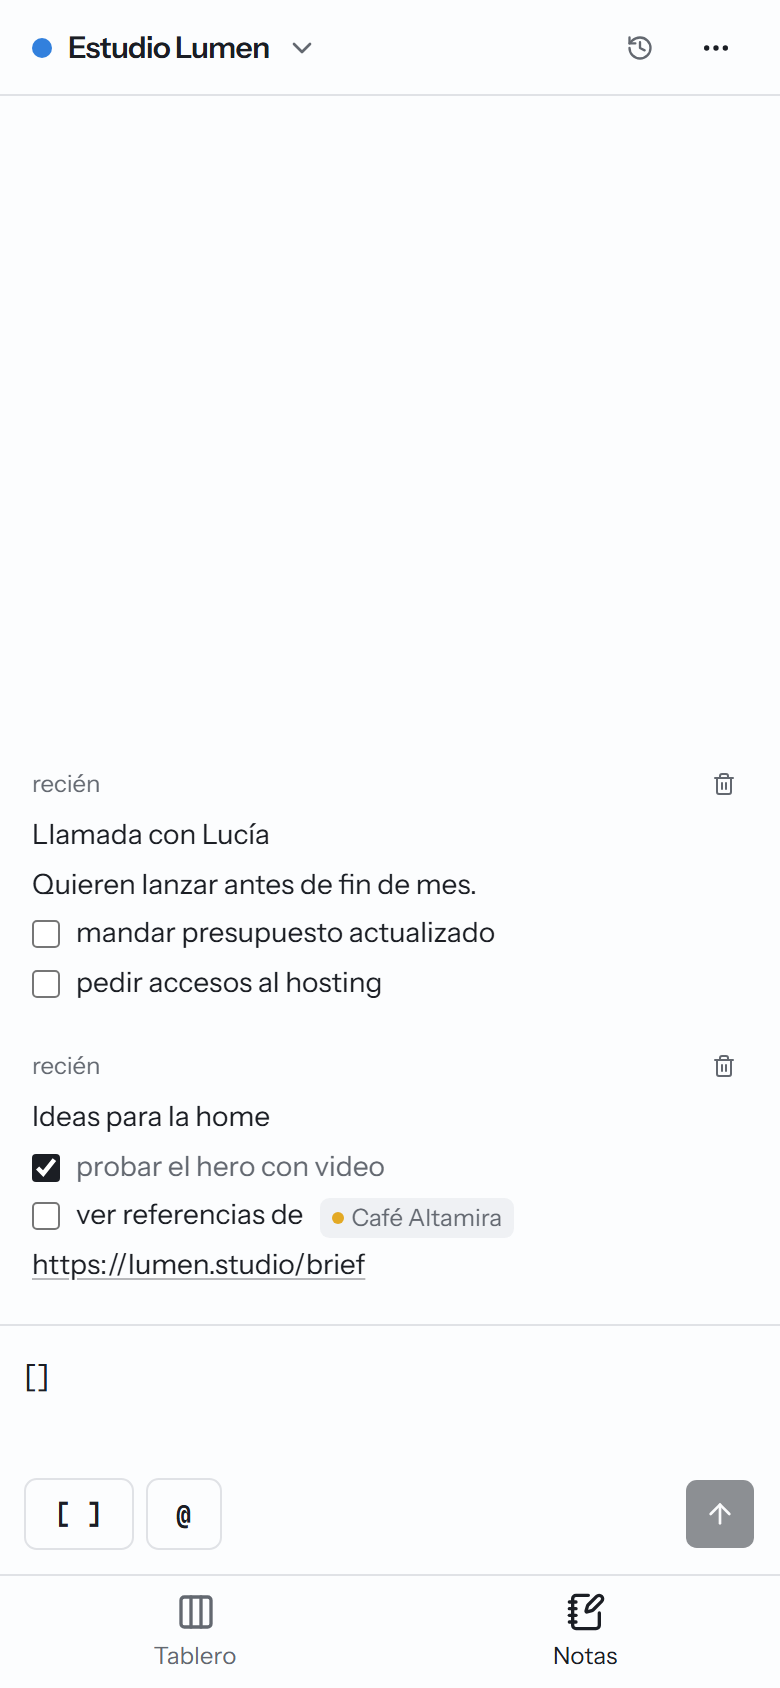
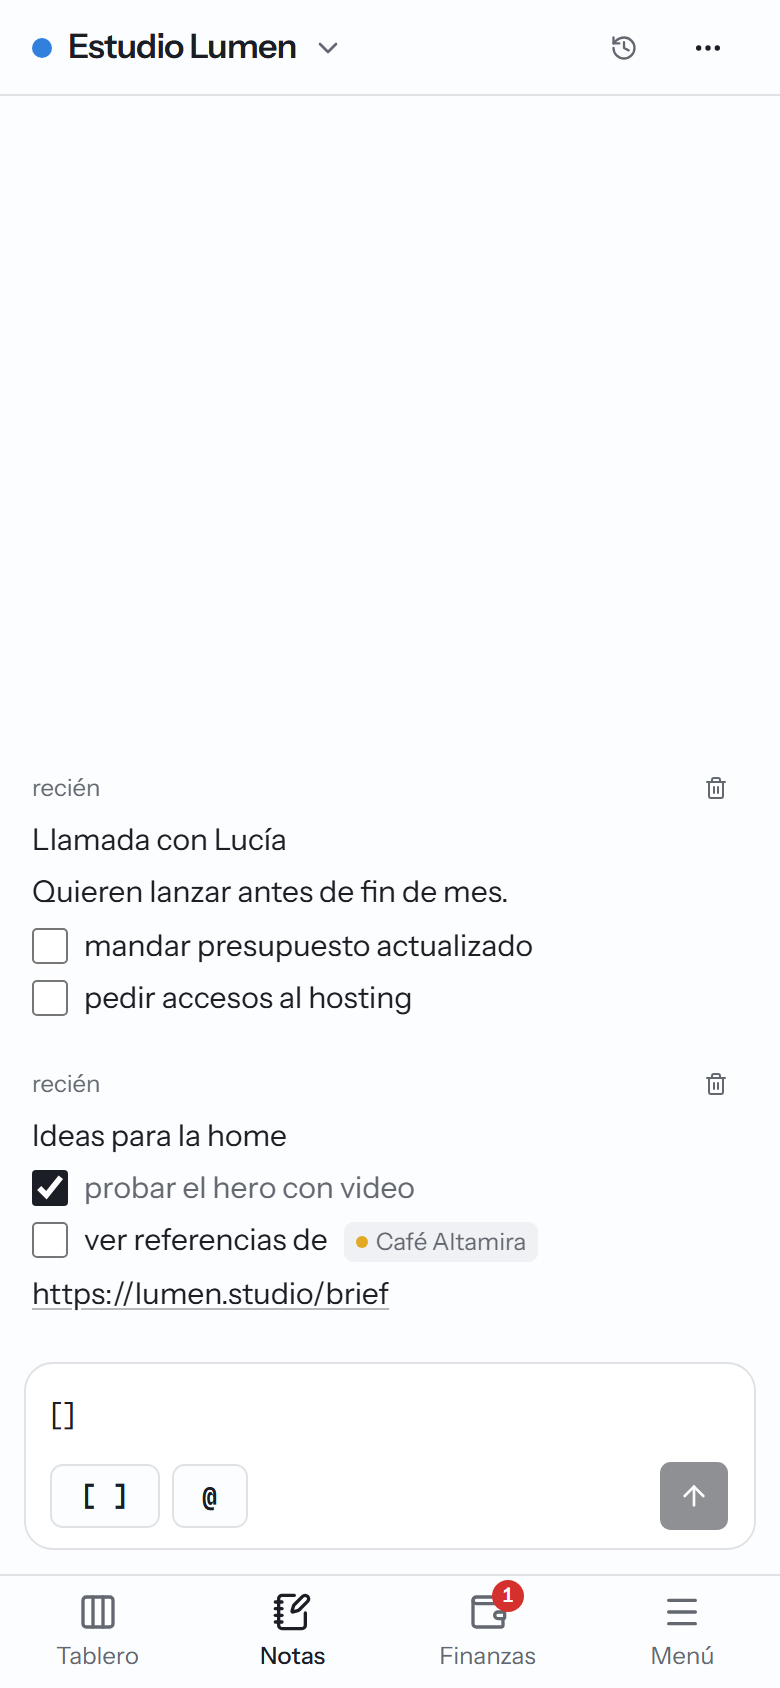
docs: mobile version in the spec, progress, README and screenshots

diff --git a/docs/PROGRESO.md b/docs/PROGRESO.md
@@ -2,7 +2,7 @@
 
 ## Fase actual
 
-**Fase 7 — Por cobrar y carpetas personalizadas: cerrada.** Las fases 0 a 7 están hechas y la app está en producción.
+**Fase 8 — Versión mobile: hecha.** Las fases 0 a 8 están hechas y la app está en producción. Los e2e de la Fase 8 quedaron escritos pero sin correr contra la base: ver "Pendientes para vos".
 
 ## Hecho
 
@@ -71,6 +71,16 @@
 
 - **Paso 2, carpetas personalizadas.** `Folder.color` y `Folder.icon` (migración `folder_style`: dos columnas opcionales, sin tocar datos); `PATCH /folders/:id` los acepta (`null` vuelve a como estaba) y la API ignora valores que no conoce. `FOLDER_ICONS` en `shared`. En la web: "Personalizar" en el "…" de cada carpeta abre un diálogo con la fila como va a quedar, los 8 colores de los tableros y 23 íconos; la sidebar muestra el ícono con su color. e2e en `pages.spec.ts`. Capturas del README con carpetas de color.
 
+### Fase 8 — Versión mobile
+
+- **Por qué en el celu se veía como la compu**: el `viewport` estaba bien y el celu recibía el layout mobile, pero ese layout era el kanban de escritorio achicado: una columna gris del alto de la pantalla con la siguiente asomando, la navegación escondida en el título, diálogos centrados con botones de 32 px y campos de 13–14 px (en el iPhone, enfocar un campo de menos de 16 px hace zoom y la página queda agrandada).
+- **Tablero y General como lista** (`LaneSection`, la usan los dos): en el celu las columnas van una abajo de la otra; cada una es un grupo con el título fijo arriba mientras se recorre (color de su rol, contador y menú) y las tarjetas como filas de un mismo bloque, con "Agregar tarjeta" al final. En la compu es la columna de siempre. Se mueve con long-press entre grupos (dnd-kit baja o sube la lista cerca del borde) y con "Mover a…".
+- **Barra de abajo** (`MobileNav`): Tablero, Notas (las dos vistas del tablero; desde otra sección abren el último), Finanzas (con el número de lo que vence) y Menú (la sidebar en un panel). Reemplaza a las pestañas Tablero/Notas. En Finanzas y en una nota, el título ya no abre el menú: lo abre "Menú".
+- **Hojas**: en pantallas de menos de 640 px los diálogos suben desde abajo a todo el ancho, con los botones del pie en una fila. Con el dedo, abrir uno no enfoca el primer campo (así no salta el teclado al abrir una tarjeta); un campo con `autoFocus` (el monto de un pago nuevo) sí se enfoca. El historial ocupa toda la pantalla.
+- **Para el dedo**: botones, selects, inputs y opciones de menú un escalón más grandes (40–44 px); filas de la sidebar y del árbol de Notas de 44 px; tarjetas de 15 px con checkbox de 20 px; campos de 16 px en el celu (agregar tarjeta, renombrar columna o carpeta).
+- **Notas**: el composer es un bloque redondeado, como el campo de un chat; texto de 15 px y checkboxes más grandes. En un tablero archivado el celu muestra solo "Desarchivar" (el cartel "Archivado" no dejaba lugar para el nombre).
+- e2e: `mobile.spec.ts` (lista vertical, barra de abajo, nota y "Mover a…"), `drop-zones.spec.ts` (long-press bajando hasta "En curso", en un tablero y en General) y `pages.spec.ts` ("Menú" desde una nota). Verificado con la API simulada en Playwright (375, 360 y 390 px, claro y oscuro, tablet y la ventana de notas): las pantallas, el arrastre con eventos touch reales en un tablero y en General, y la compu sin cambios. README con "En el celu" y las capturas del celu nuevas.
+
 ## Decisiones
 
 - **Versiones**: lo último estable que funciona junto. TypeScript 6.0 (typescript-eslint todavía no soporta TS 7), Prisma 7.10 (Prisma 8 está en RC), React Router 8 en modo data, Vite 8, Vitest 5, ESLint 10, Tailwind 4, Zod 4, shadcn CLI 4.
@@ -110,7 +120,9 @@
 - **Historial sin tareas programadas**: el día lo define el dispositivo (header `X-Day-Start` con su medianoche) y el archivado pasa al leer (tablero, notas, historial). Se descartó un cron de Vercel: en Hobby corre una vez por día con una hora de margen, necesita una ruta fuera del candado y no anda en local. Si el header falta o está a más de 48 h de la hora del server, no se archiva nada.
 - **Tarjetas del historial**: quedan en su columna con `archivedAt` (no se mueven). Cambiar la columna de terminadas no las reabre; si se borra una columna que las tiene (porque antes era la de terminadas), pasan a la de terminadas actual. `toggle-done` decide por `completedAt` (lo que muestra la nota) y no por la columna.
 - **Ventana de notas**: `window.open` común, que anda en cualquier navegador, en vez de Document Picture-in-Picture (siempre encima, pero solo Chrome/Edge, una sola ventana flotante a la vez y los diálogos se abrirían en la ventana principal). Para tenerla siempre encima en Windows: PowerToys, Win+Ctrl+T.
-- **Por qué "En curso" no recibía nada** (reproducido con e2e antes de tocar): (1) en los tableros la detección era `closestCorners`, que compara las esquinas de la tarjeta con las de cada zona; en una pantalla alta (1080 px) la columna vacía, larga, quedaba "más lejos" que las tarjetas de las columnas de los costados y la tarjeta volvía a su lugar. (2) La zona para soltar era solo la lista (`ol`): el título y el pie no contaban, y en General (`pointerWithin`) soltar ahí no hacía nada. (3) En el celu, el auto-scroll de dnd-kit con scroll-snap salta una columna entera en cada paso y llegaba al final en menos de 300 ms. Arreglo: la zona es toda la columna; con puntero manda lo que está debajo (`pointerWithin`, y si la columna tiene tarjetas, la más cercana marca el lugar), con teclado sigue `closestCorners`; en el celu (< 768 px) la fila de columnas no la mueve dnd-kit sino `useEdgePaging`: quedarse 0,5 s en el borde pasa a la columna de al lado y, si sigue ahí, la siguiente espera 1,1 s (da tiempo a soltar en la que llegó).
+- **Por qué "En curso" no recibía nada** (reproducido con e2e antes de tocar): (1) en los tableros la detección era `closestCorners`, que compara las esquinas de la tarjeta con las de cada zona; en una pantalla alta (1080 px) la columna vacía, larga, quedaba "más lejos" que las tarjetas de las columnas de los costados y la tarjeta volvía a su lugar. (2) La zona para soltar era solo la lista (`ol`): el título y el pie no contaban, y en General (`pointerWithin`) soltar ahí no hacía nada. (3) En el celu, el auto-scroll de dnd-kit con scroll-snap salta una columna entera en cada paso y llegaba al final en menos de 300 ms. Arreglo: la zona es toda la columna; con puntero manda lo que está debajo (`pointerWithin`, y si la columna tiene tarjetas, la más cercana marca el lugar), con teclado sigue `closestCorners`; en el celu (< 768 px) la fila de columnas no la mueve dnd-kit sino `useEdgePaging`: quedarse 0,5 s en el borde pasa a la columna de al lado y, si sigue ahí, la siguiente espera 1,1 s (da tiempo a soltar en la que llegó). En la Fase 8 las columnas del celu pasaron a ir una abajo de la otra y `useEdgePaging` se borró.
+- **Mobile como lista** (Fase 8): el kanban con swipe de la Fase 4 era el de la compu en chico. En el celu lo esperable es una lista agrupada (como Linear o Todoist): todo con un solo scroll vertical, el contador de cada columna a la vista y nada asomando de costado.
+- **Anchos**: el layout mobile sigue siendo < 768 px (`max-md`); las hojas, < 640 px (`max-sm`), así no chocan con los anchos `sm:` de los diálogos y en una tablet chica siguen centrados. Los tamaños táctiles van por `pointer: coarse` (también en una tablet, con la sidebar de escritorio).
 - **Selector propio**: el `select` de shadcn (Radix Select, viene en `radix-ui`, sin dependencias nuevas) reemplaza al `<select>` nativo, que en Windows con tema oscuro mostraba la lista gris clara. Se usa también en "Mover a…": en el celu es cómodo (opciones más altas con `pointer: coarse`).
 - **Colores de columna**: por rol con `laneOf`, como tokens de claro y oscuro. Contraste medido contra el fondo de la columna y el resaltado al soltar: 4,6:1 o más en claro (el amarillo es un ocre oscuro) y 7,8:1 o más en oscuro.
 - **Vercel Blob**: dos stores privados creados con el CLI (`notnot-ion-dev` → Development y Preview, `notnot-ion-prod` → Production, en `iad1` como Neon). El CLI los conectó con `BLOB_READ_WRITE_TOKEN` por entorno (no con OIDC), así que la API usa ese token en todos lados; en local va en el `.env` (el del store de dev). Si se reconecta un store, el CLI vuelve a agregar `.env*` al `.gitignore`: hay que sacarlo (taparía `.env.example`).
@@ -140,6 +152,8 @@
 
 ## Pendientes para vos
 
+- **Credenciales de la base de dev**: desde el 1/10 a la tarde, Neon rechaza el usuario y la contraseña del `.env` (`DATABASE_URL` y `DIRECT_URL`: "Authentication failed"; ese día a las 15:23 los e2e andaban), así que la API local da 500. Seguramente se reseteó la contraseña del branch `dev`. Copiá las dos URLs nuevas del branch `dev` (Neon → Connect) al `.env` y corré `pnpm e2e`: los de la Fase 8 quedaron escritos pero sin correr contra la base. Las capturas del celu del README salieron de la API simulada con los mismos datos de `pnpm --filter @notnot/web capturas`; ese comando las vuelve a sacar con la base.
+- **Probar la versión mobile en tu celu**: abrila (o la app instalada) después del deploy. Si todavía ves la sidebar a la izquierda como en la compu, revisá que el navegador no tenga activado "Sitio de escritorio" para la app.
 - **Instalarla en el celu y en la compu** (ver "Instalarla" en el README). El código de producción te lo pasé por chat; no está en el repo.
 - **Probar en producción lo de las fases 6 y 7** con tus datos: imágenes en una tarjeta, la sección Notas, un pago con comprobante y algo por cobrar con "Me pagaron". Las subidas las probé en el preview (mismo código, store de dev); en producción no puedo entrar porque no tengo el código.
 - **Opcional**: en Vercel, los dos `BLOB_READ_WRITE_TOKEN` quedaron como variables "no sensibles" (así las creó el CLI). Si querés que no se puedan volver a leer desde el dashboard, marcalas como sensibles (Settings → Environment Variables).

diff --git a/docs/SPEC.md b/docs/SPEC.md
@@ -128,14 +128,19 @@ La web manda en cada pedido `X-Day-Start` con la medianoche de hoy en el disposi
 - Finanzas tiene dos pestañas: **Cobrado** (los pagos por mes) y **Por cobrar** (con cuántas hay pendientes).
 - Cobrado (`/finanzas/2026-10`): el mes con flechas para ir y volver y la lista de los meses con pagos; lo cobrado en el mes por moneda; la lista por fecha o agrupada por categoría con subtotales (`?por=categoria`). "Anotar un pago" y tocar uno abren el mismo formulario: monto como se escribe acá ("150.000", "1.234,50"), moneda, fecha, cliente, categoría (con las ya usadas como sugerencia), descripción y comprobantes (pegar, arrastrar o adjuntar; en uno nuevo se suben al guardarlo). Si hay algo por cobrar, el formulario deja vincular el pago (o desvincularlo); vinculado, la moneda es la de lo que te deben.
 - Por cobrar (`/finanzas/por-cobrar`): lo que te deben en total por moneda y la lista: primero lo vencido (marcado, "venció hace 3 días"), después lo que vence, por fecha ("vence hoy", "vence en 5 días"), y al final lo que no tiene fecha; las cobradas, aparte y plegadas. Cada fila: el día que vence, concepto, cliente, lo que falta (y de cuánto, si ya pagaron una parte) y "Me pagaron", que abre el formulario de un pago ya completo (lo que falta, la moneda, el cliente y el concepto) para ajustar el monto y adjuntar el comprobante. Tocar una abre su formulario: concepto, monto y moneda, vence, cliente, nota y los pagos que tiene.
-- Nota (`/p/:id`): título y texto plano. Se guarda sola (un rato después de la última tecla, al ir a otra nota y al esconder la pestaña) y lo avisa ("Guardando…", "Guardado"). Arriba, dónde está (Notas / carpeta), "Mover a…" y borrar. En el celu, el título del header abre la sidebar, como en los tableros.
+- Nota (`/p/:id`): título y texto plano. Se guarda sola (un rato después de la última tecla, al ir a otra nota y al esconder la pestaña) y lo avisa ("Guardando…", "Guardado"). Arriba, dónde está (Notas / carpeta), "Mover a…" y borrar. En el celu, la sidebar se abre con "Menú" en la barra de abajo.
 - Header del tablero: "Historial" (panel lateral con las terminadas, agrupadas por día; en General, las de todos con el chip de su tablero) y, en desktop, "Abrir las notas en otra ventana".
 - Ventana de notas (`/notas/:slug`): una ventana chica aparte (`window.open`, ~400×640) con solo el panel de notas y un selector de tablero arriba (desplegable propio, con el punto de color de cada tablero). Cambiar de tablero cambia dónde se escriben las notas y a dónde van las tareas sin `@`. Lo que cambia en una ventana se refresca en las otras (BroadcastChannel).
 - General: tres columnas fijas por estado con las tarjetas de todos los tableros activos. "Por hacer" = la primera columna normal de cada tablero, "En curso" = las otras normales, "Hecho" = la de terminadas. Cada tarjeta muestra el chip de su tablero (las de General no llevan). Dentro de cada columna van agrupadas por tablero, en el orden de la sidebar. Arrastrar una tarjeta a otra columna la mueve al final de esa columna en su propio tablero ("En curso" va a la segunda columna normal; si el tablero no tiene, avisa y no la mueve). No se reordena dentro de una columna ni se editan las columnas de General. "Agregar tarjeta" en cada columna crea una tarea de General en la columna que corresponde.
 - Columna: título con el color de su rol (la primera normal celeste, las otras amarillas, la de terminadas verde), contador, "+ Agregar tarjeta" al pie y menú (renombrar, marcar como terminadas, borrar). Toda la columna recibe lo que se suelta.
 - Tarjeta: una fila con un checkbox (tilda y destilda como desde la nota) y el título en negrita con una línea de la descripción debajo. Click abre el detalle (título, descripción, imágenes, mover a otro tablero o columna, borrar, link a la nota de origen).
 - Imágenes en el detalle: pegar (Ctrl+V), arrastrar o el botón "Adjuntar" (en el celu abre la galería o la cámara); el navegador las achica y las pasa a WebP antes de subirlas. Miniaturas que se borran (con confirmación) y que, al tocarlas, se agrandan desde su lugar (GSAP Flip, sin animación con `prefers-reduced-motion`) sobre el fondo oscurecido; se cierran con click, Esc o tocando afuera.
-- Mobile (<768px): header con selector de tablero, tabs abajo "Tablero" / "Notas", columnas de a una con swipe (scroll-snap). Reordenar dentro de la columna con long-press; arrastrar una tarjeta hasta el borde y esperar pasa a la columna de al lado. También "Mover a…".
+- Mobile (<768px): una sola columna de contenido, sin nada que se salga hacia los costados.
+  - Abajo, la barra de la app: "Tablero" y "Notas" (las dos vistas del tablero abierto o, desde otra sección, del último), "Finanzas" (con cuánto por cobrar vence hoy o ya venció) y "Menú" (la sidebar en un panel: tableros, la sección Notas y bloquear). El título del tablero también abre el menú.
+  - El tablero es una lista: cada columna es un grupo con su título (color de su rol, contador y menú, fijo arriba mientras se recorre el grupo), sus tarjetas como filas y "Agregar tarjeta" al final. En General, igual con sus tres columnas por estado.
+  - Mover: long-press y arrastrar a otro grupo (cerca del borde de abajo o de arriba la lista se mueve sola), o "Mover a…" en el detalle.
+  - Los diálogos (tarjeta, pago, por cobrar, tablero, carpeta…) suben desde abajo como hojas, a todo el ancho; las confirmaciones quedan centradas. El historial ocupa toda la pantalla. Abrir una tarjeta no despliega el teclado.
+  - Con el dedo (`pointer: coarse`), botones, filas y opciones de menú miden 40–44 px. Los campos tienen 16 px de texto: con menos, el iPhone hace zoom al enfocarlos.
 - Estética sobria y prolija tipo Linear, claro/oscuro según el sistema, color de acento por tablero. Estados vacíos y de carga cuidados. Toasts para errores.
 - Accesible: drag & drop con teclado, labels en botones de ícono, foco visible.
 - Datos con TanStack Query: refetch al volver a la app y optimistic updates al mover tarjetas, tildar y crear notas.
@@ -293,6 +298,16 @@ Una rama y un PR por paso. Las migraciones solo agregan.
 2. **Carpetas personalizadas.** En la sección Notas, cada carpeta puede tener uno de los 8 colores de los tableros y un ícono de una lista; sin elegir, queda como ahora. Se cambian desde su "…" → "Personalizar", con una vista previa.
 
    **Listo cuando:** el e2e le pone color e ícono a una carpeta, recarga y siguen; y la vuelve a dejar como estaba.
+
+### Fase 8 — Versión mobile
+En el celu la app se veía como la de la compu achicada (el kanban con la columna siguiente asomando, el menú escondido en el título, diálogos centrados). Pasa a ser una versión pensada para el celu, más ordenada (ver "Mobile" en UI). La compu queda igual.
+
+- Tablero y General como lista vertical agrupada por columna, con el título del grupo fijo arriba.
+- Barra de abajo con Tablero, Notas, Finanzas y Menú.
+- Diálogos como hojas desde abajo; historial a pantalla completa.
+- Tamaños para el dedo y campos de 16 px.
+
+**Listo cuando:** el e2e en 375 px ve las columnas una abajo de la otra a todo el ancho sin scroll horizontal; con la barra de abajo va a Notas, a Finanzas, vuelve al tablero y abre el menú; captura una nota y mueve una tarjeta con "Mover a…"; con long-press baja una tarjeta hasta "En curso" en un tablero y en General; y desde una nota de la sección Notas, "Menú" abre la sidebar.
 
 ## Después (no ahora)
 - Avisos de lo que vence por cobrar (notificaciones push con la app instalada).

diff --git a/README.md b/README.md
@@ -14,15 +14,16 @@ Un solo usuario, sin cuentas: la app se abre con un código. Funciona en la web 
 
 - **Tableros**: uno por cliente o categoría, con columnas "Por hacer", "En curso" y "Hecho" (podés agregar, renombrar y elegir cuál es la de terminadas).
 - **General**: siempre está arriba. Junta las tarjetas de todos los tableros por estado, cada una con el chip de su tablero, y guarda lo que no es de ningún cliente. Arrastrar una tarjeta a otra columna le cambia el estado en su tablero.
-- **Tarjetas**: se crean al pie de cada columna, se tildan con su checkbox (igual que desde la nota) y se mueven arrastrando a cualquier parte de la columna (con el mouse, con espacio y flechas, o con un toque largo en el celu: quedarse en el borde pasa a la columna de al lado) o desde el detalle con "Mover a…".
+- **Tarjetas**: se crean al pie de cada columna, se tildan con su checkbox (igual que desde la nota) y se mueven arrastrando a cualquier parte de la columna (con el mouse, con espacio y flechas, o con un toque largo en el celu) o desde el detalle con "Mover a…".
 - **Imágenes**: en el detalle de una tarjeta, pegá una captura (Ctrl+V), arrastrá una imagen o tocá "Adjuntar" (en el celu, galería o cámara). Se achican antes de subirse, se agrandan al tocarlas y son privadas: solo se ven con el candado abierto.
-- **Notas**: escribís en el panel de la derecha (en el celu, en la pestaña "Notas"). El composer ya arranca con `[] `: escribís, das Enter y se crea la tarjeta, listo para la siguiente. Cada línea que empieza con `[]`, `[ ]`, `- []`, `- [ ]` o `* [ ]` se vuelve tarjeta al final de "Por hacer"; para una nota común, borrás los corchetes. Con `@tablero` la mandás a otro tablero; sin `@`, queda en el tablero donde escribís. Abajo del composer se ve antes de enviar: "2 tareas → Pepito, General".
+- **Notas**: escribís en el panel de la derecha (en el celu, en "Notas" de la barra de abajo). El composer ya arranca con `[] `: escribís, das Enter y se crea la tarjeta, listo para la siguiente. Cada línea que empieza con `[]`, `[ ]`, `- []`, `- [ ]` o `* [ ]` se vuelve tarjeta al final de "Por hacer"; para una nota común, borrás los corchetes. Con `@tablero` la mandás a otro tablero; sin `@`, queda en el tablero donde escribís. Abajo del composer se ve antes de enviar: "2 tareas → Pepito, General".
 - Tildar una línea de la nota manda la tarjeta a "Hecho"; moverla en el tablero actualiza el tilde. Borrar una nota deja sus tarjetas.
 - **Notas en otra ventana**: el botón al lado de "Notas" las abre solas en una ventana chica, con un selector de tablero arriba, para tenerlas al costado en una reunión. En Windows, PowerToys la deja siempre encima con Win+Ctrl+T.
 - **Historial**: cada día arranca con "Hecho" vacío. Lo terminado antes de hoy pasa al Historial (botón en el header), agrupado por día; en General se ve el de todos los tableros.
 - **Sección Notas** (en la sidebar, abajo de los tableros): para lo que no es una tarea. Carpetas con carpetas adentro y notas con título y texto, que se guardan solas mientras escribís. Se crean, renombran, mueven ("Mover a…") y borran desde el "…" de cada una; las carpetas, además, se personalizan con un color y un ícono.
 - **Finanzas → Cobrado**: los pagos que te hicieron, en pesos o dólares, organizados por mes. Cada uno con fecha, monto, cliente (uno de los tableros), categoría, descripción y comprobantes. Arriba, lo cobrado en el mes por moneda; la lista se ve por fecha o agrupada por categoría.
 - **Finanzas → Por cobrar**: lo que te deben, con el día que vence. Lo vencido queda arriba y marcado, y en la sidebar, al lado de Finanzas, ves cuánto vence hoy o ya venció. "Me pagaron" anota el pago ya completo (si fue una parte, cambiás el monto y queda lo que falta); cuando está todo, pasa a "Cobradas" con la lista de sus pagos.
+- **En el celu**: el tablero es una lista, con las columnas una abajo de la otra. Abajo están "Tablero" y "Notas" (las dos vistas del tablero), "Finanzas" y "Menú" (los tableros, la sección Notas y bloquear). La tarjeta y los formularios se abren desde abajo, y todo se toca cómodo con el dedo.
 
 ![General: las tarjetas de todos los tableros por estado](docs/capturas/escritorio-general.png)
 
